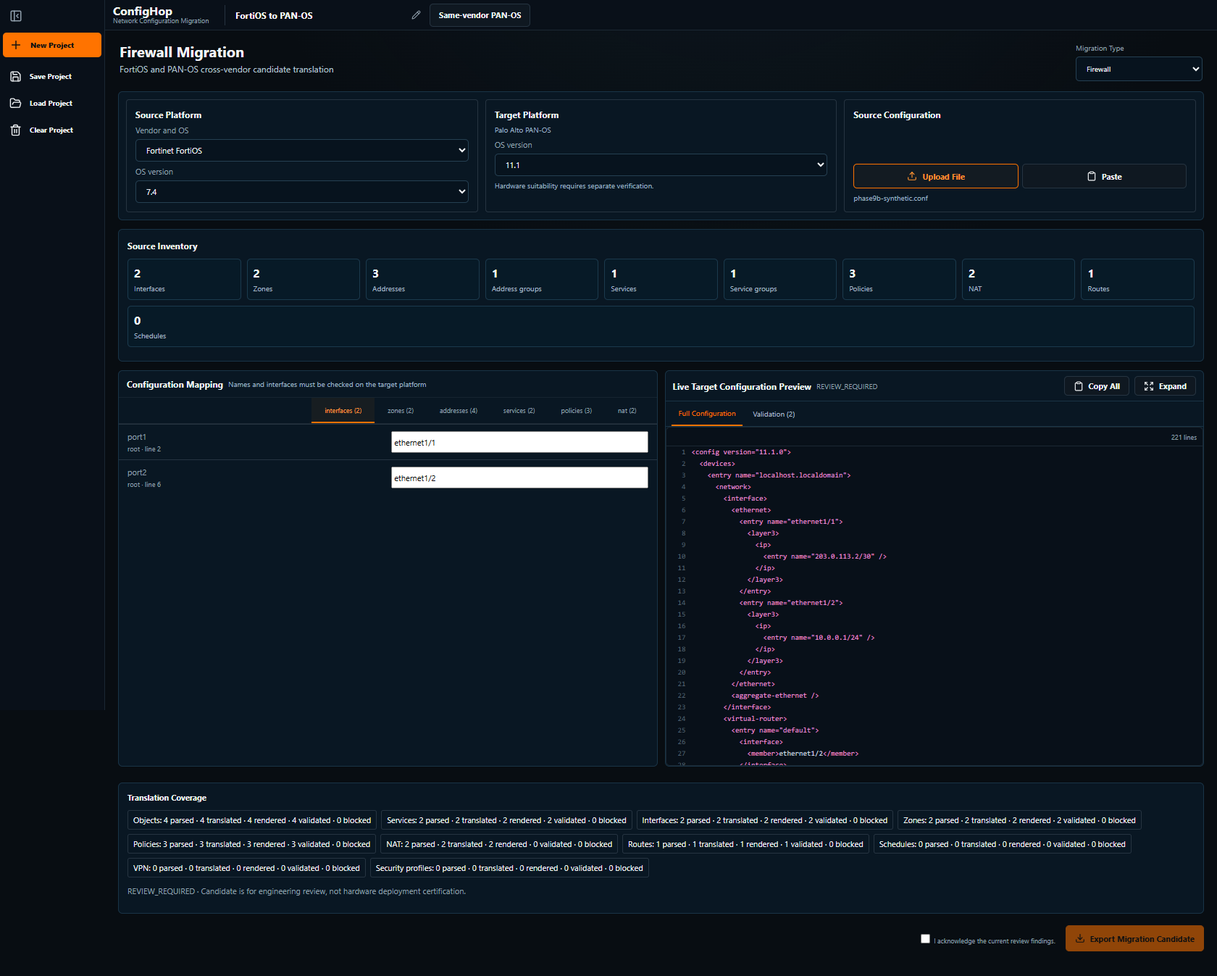
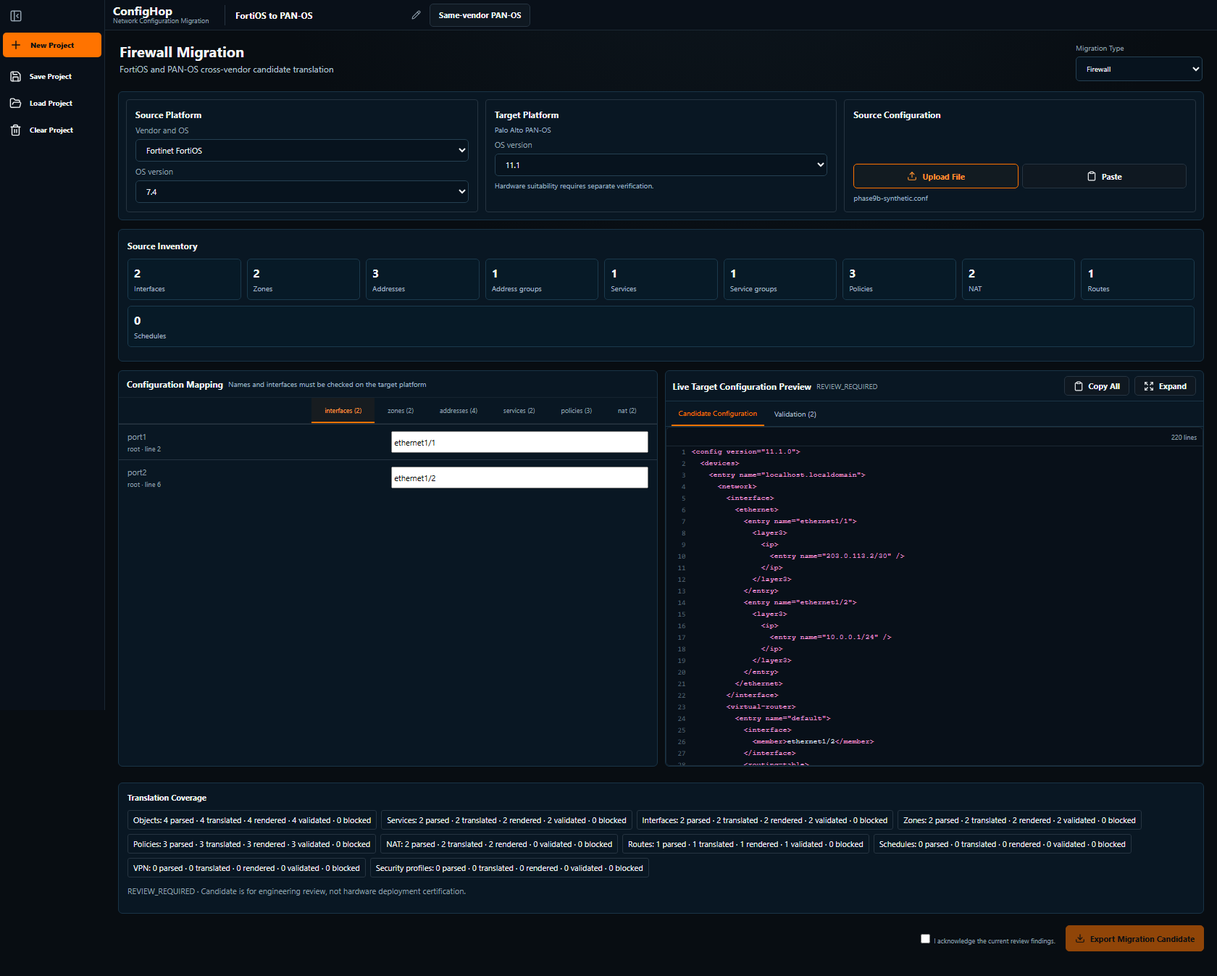
fix(firewall): preserve NAT service match and block ambiguous policies

Changed region(s): [[0.5571, 0.4053, 0.7119, 0.7795]]

diff --git a/src/FirewallApp.tsx b/src/FirewallApp.tsx
@@ -24,6 +24,7 @@ export default function FirewallApp() {
   const [domain, setDomain] = useState<Domain>('Firewall')
   const [backendMode, setBackendMode] = useState(true)
   const [crossVendorMode, setCrossVendorMode] = useState(false)
+  const [crossVendorInitialSource, setCrossVendorInitialSource] = useState<'fortios' | 'panos'>('fortios')
   const [projectName, setProjectName] = useState('Palo Alto Firewall Migration')
   const [switchProjectName, setSwitchProjectName] = useState('C9300-48P → CX 6300M 48G')
   const [sidebarCollapsed, setSidebarCollapsed] = useState(false)
@@ -280,8 +281,8 @@ export default function FirewallApp() {
       <button className="sidebar-action" onClick={domain === 'Switch' || crossVendorMode || !backendMode ? () => mockActions.current?.clear() : clearProject}><Trash2 size={17} /><span>Clear Project</span></button>
     </aside>
     <div className="app-content">
-      <header className="app-header"><div className="brand-text"><strong>ConfigHop</strong><span>Network Configuration Migration</span></div><div className="header-divider" /><div className="project-name"><input value={domain === 'Switch' ? switchProjectName : projectName} onChange={(event) => domain === 'Switch' ? setSwitchProjectName(event.target.value) : setProjectName(event.target.value)} aria-label="Project name" /><Pencil size={13} /></div>{domain === 'Firewall' && <button className="btn secondary" onClick={() => { setProjectName(crossVendorMode ? 'Palo Alto Firewall Migration' : 'FortiOS to PAN-OS'); setCrossVendorMode(value => !value); setBackendMode(true) }}>{crossVendorMode ? 'Same-vendor PAN-OS' : 'Cross-vendor Firewall'}</button>}</header>
-      {domain === 'Switch' ? <SwitchWorkspace onDomainChange={setDomain} onTitleChange={setSwitchProjectName} actionsRef={mockActions} /> : crossVendorMode ? <FirewallTranslationWorkspace onDomainChange={setDomain} onTitleChange={setProjectName} actionsRef={mockActions} /> : !backendMode ? <MockWorkspace key={domain} domain={domain} onDomainChange={setDomain} onBackend={() => { setBackendMode(true); setProjectName('Palo Alto → Palo Alto') }} actionsRef={mockActions} onTitleChange={setProjectName} /> :
+      <header className="app-header"><div className="brand-text"><strong>ConfigHop</strong><span>Network Configuration Migration</span></div><div className="header-divider" /><div className="project-name"><input value={domain === 'Switch' ? switchProjectName : projectName} onChange={(event) => domain === 'Switch' ? setSwitchProjectName(event.target.value) : setProjectName(event.target.value)} aria-label="Project name" /><Pencil size={13} /></div>{domain === 'Firewall' && <button className="btn secondary" onClick={() => { setProjectName(crossVendorMode ? 'Palo Alto Firewall Migration' : 'FortiOS to PAN-OS'); setCrossVendorInitialSource('fortios'); setCrossVendorMode(value => !value); setBackendMode(true) }}>{crossVendorMode ? 'Same-vendor PAN-OS' : 'Cross-vendor Firewall'}</button>}</header>
+      {domain === 'Switch' ? <SwitchWorkspace onDomainChange={setDomain} onTitleChange={setSwitchProjectName} actionsRef={mockActions} /> : crossVendorMode ? <FirewallTranslationWorkspace initialSourceOS={crossVendorInitialSource} onDomainChange={setDomain} onTitleChange={setProjectName} actionsRef={mockActions} /> : !backendMode ? <MockWorkspace key={domain} domain={domain} onDomainChange={setDomain} onBackend={() => { setBackendMode(true); setProjectName('Palo Alto → Palo Alto') }} actionsRef={mockActions} onTitleChange={setProjectName} /> :
         <main className="workspace locked-workspace firewall-workspace">
           <div className="locked-title"><div><h1>Firewall Migration</h1><p>Migrate a PAN-OS configuration within verified Palo Alto hardware scope</p></div><label>Migration Type<select value="Firewall" onChange={() => setDomain('Switch')}><option>Firewall</option><option>Switch</option></select></label></div>
           {errorText && <div className="api-error" role="alert"><CircleAlert size={15} />{errorText}</div>}
@@ -289,7 +290,7 @@ export default function FirewallApp() {
             <div className="migration-type-card"><div className="small-label">Migration Type</div><span className="type-subtitle">Select the technology domain</span><label htmlFor="migration-domain">Domain</label><select id="migration-domain" value={domain} onChange={() => setDomain('Switch')}><option>Firewall</option><option>Switch</option></select></div>
             <PlatformCard title="Source Platform" eyebrow="Current Environment" profile={sourceProfile} profiles={profiles.filter((item) => item.profile_status === 'verified')} selected={sourceProfile?.id ?? ''} onSelect={(id) => void selectSource(id)} train={sourceTrain} onTrain={(train) => void selectSource(sourceProfile?.id ?? '', train)} parsedVersion={inventory?.platform.detail_version ?? inventory?.platform.config_version ?? null} onEvidence={() => { setEvidenceScope(null); setShowEvidence(true) }} />
             <div className="migration-arrow"><ArrowRight size={30} /></div>
-            <PlatformCard title="Target Platform" eyebrow="Migration Destination" profile={profile} profiles={profiles} selected={profile?.id ?? ''} onSelect={(id) => void selectProfile(id)} train={targetTrain} onTrain={(train) => void selectProfile(profile?.id ?? '', train)} onEvidence={() => { setEvidenceScope(null); setShowEvidence(true) }} onVendorChange={() => setBackendMode(false)} />
+            <PlatformCard title="Target Platform" eyebrow="Migration Destination" profile={profile} profiles={profiles} selected={profile?.id ?? ''} onSelect={(id) => void selectProfile(id)} train={targetTrain} onTrain={(train) => void selectProfile(profile?.id ?? '', train)} onEvidence={() => { setEvidenceScope(null); setShowEvidence(true) }} onVendorChange={(vendor) => { if (vendor === 'Fortinet') { setCrossVendorInitialSource('panos'); setCrossVendorMode(true); setProjectName('PAN-OS to FortiOS') } else setErrorText('Cross-vendor backend support is limited to FortiOS and PAN-OS.') }} />
           </div></Section>
           <div className="two-up source-row"><Section number="2" title="Source Configuration" subtitle="Upload or paste PAN-OS XML"><div className="source-config-grid"><div className="source-actions">
             <button className="btn accent-outline" onClick={() => fileRef.current?.click()} disabled={busy}><Upload size={15} /> Upload File</button><button className="btn secondary" onClick={pasteClipboard} disabled={busy}><Clipboard size={15} /> Paste from Clipboard</button>
@@ -340,10 +341,10 @@ function Section({ number, title, subtitle, children }: { number: string; title:
 
 export function PlatformCard({ title, eyebrow, profile, profiles, selected, onSelect, train, onTrain, parsedVersion, onEvidence, onVendorChange }: {
   title: string; eyebrow: string; profile: HardwareProfileDetail | null; profiles: HardwareProfileSummary[]; selected: string;
-  onSelect: (id: string) => void; train: string; onTrain: (train: string) => void; parsedVersion?: string | null; onEvidence: () => void; onVendorChange?: () => void
+  onSelect: (id: string) => void; train: string; onTrain: (train: string) => void; parsedVersion?: string | null; onEvidence: () => void; onVendorChange?: (vendor: string) => void
 }) {
   const status = profile?.profile_status === 'verified' ? title === 'Target Platform' ? targetRenderLabel(profile.target_render_support) : 'Verified Profile' : profile ? 'Synthetic Profile' : 'Profile Not Available'
-  return <div className="platform-card"><div className="platform-card-head"><div className="platform-title"><strong>{title}</strong><span>{eyebrow}</span></div><div className="compatibility"><span className={profile?.target_render_support === 'SCOPED' && title === 'Target Platform' ? 'scoped-pill' : profile ? 'success-pill' : 'muted'}><CircleCheck size={14} /> {status}</span><small>{profile?.profile_status === 'verified' ? `Evidence: ${profile.evidence_ids.length} official sources` : profile ? 'Development profile only' : 'Exact hardware profile required'}</small>{title === 'Target Platform' && profile?.target_render_support === 'SCOPED' && <small>Candidate generation is limited to qualified interface paths.</small>}{!!profile?.evidence_ids.length && <button className="evidence-link" onClick={onEvidence}>View Evidence</button>}</div></div><div className="platform-fields"><label className="field"><span>Vendor</span><div className="select-wrap"><select value="Palo Alto Networks" disabled={!onVendorChange} onChange={onVendorChange}><option>Palo Alto Networks</option>{onVendorChange && <><option>Fortinet</option><option>Juniper Networks</option></>}</select></div><small>PAN-OS XML</small></label><label className="field"><span>PAN-OS Train</span><div className="select-wrap"><select value={train} onChange={(event) => onTrain(event.target.value)} disabled={!profile}><option value="">Select train</option>{profile?.supported_panos_trains.map((value) => <option key={value} value={value}>{value}</option>)}</select></div><small>{parsedVersion ? `Parsed config: PAN-OS ${parsedVersion}` : 'Selected train is manual'}</small></label><details className="hardware-advanced"><summary>Hardware compatibility · {profile?.model ?? 'select exact profile'}</summary><label className="field"><span>Hardware Profile</span><div className="select-wrap"><select aria-label={`${title} hardware profile`} value={selected} onChange={(event) => onSelect(event.target.value)}><option value="">Select {title === 'Target Platform' ? 'target' : 'source'} profile</option>{profiles.map((item) => <option key={item.id} value={item.id}>{item.model} — {item.profile_status === 'verified' ? 'Verified' : 'Synthetic Development'}</option>)}</select></div><small>{profile?.series ?? 'Manual selection required'}</small></label></details></div></div>
+  return <div className="platform-card"><div className="platform-card-head"><div className="platform-title"><strong>{title}</strong><span>{eyebrow}</span></div><div className="compatibility"><span className={profile?.target_render_support === 'SCOPED' && title === 'Target Platform' ? 'scoped-pill' : profile ? 'success-pill' : 'muted'}><CircleCheck size={14} /> {status}</span><small>{profile?.profile_status === 'verified' ? `Evidence: ${profile.evidence_ids.length} official sources` : profile ? 'Development profile only' : 'Exact hardware profile required'}</small>{title === 'Target Platform' && profile?.target_render_support === 'SCOPED' && <small>Candidate generation is limited to qualified interface paths.</small>}{!!profile?.evidence_ids.length && <button className="evidence-link" onClick={onEvidence}>View Evidence</button>}</div></div><div className="platform-fields"><label className="field"><span>Vendor</span><div className="select-wrap"><select value="Palo Alto Networks" disabled={!onVendorChange} onChange={(event) => onVendorChange?.(event.target.value)}><option>Palo Alto Networks</option>{onVendorChange && <><option>Fortinet</option><option>Juniper Networks</option></>}</select></div><small>PAN-OS XML</small></label><label className="field"><span>PAN-OS Train</span><div className="select-wrap"><select value={train} onChange={(event) => onTrain(event.target.value)} disabled={!profile}><option value="">Select train</option>{profile?.supported_panos_trains.map((value) => <option key={value} value={value}>{value}</option>)}</select></div><small>{parsedVersion ? `Parsed config: PAN-OS ${parsedVersion}` : 'Selected train is manual'}</small></label><details className="hardware-advanced"><summary>Hardware compatibility · {profile?.model ?? 'select exact profile'}</summary><label className="field"><span>Hardware Profile</span><div className="select-wrap"><select aria-label={`${title} hardware profile`} value={selected} onChange={(event) => onSelect(event.target.value)}><option value="">Select {title === 'Target Platform' ? 'target' : 'source'} profile</option>{profiles.map((item) => <option key={item.id} value={item.id}>{item.model} — {item.profile_status === 'verified' ? 'Verified' : 'Synthetic Development'}</option>)}</select></div><small>{profile?.series ?? 'Manual selection required'}</small></label></details></div></div>
 }
 
 function Metric({ icon, value, label }: { icon: ReactNode; value: number | string; label: string }) { return <div className="metric-tile"><div className="metric-icon">{icon}</div><div><strong>{value}</strong><span>{label}</span></div></div> }

diff --git a/src/FirewallTranslationWorkspace.tsx b/src/FirewallTranslationWorkspace.tsx
@@ -9,12 +9,12 @@ const emptyMappings = (): FirewallMappings => ({ interfaces: {}, zones: {}, addr
 const sourceOptions = { fortios: ['7.4'], panos: ['11.1'] }
 const label = { fortios: 'Fortinet FortiOS', panos: 'Palo Alto PAN-OS' }
 type Vendor = 'fortios' | 'panos'
-type Props = { onDomainChange: (domain: 'Firewall' | 'Switch') => void; onTitleChange: (title: string) => void; actionsRef: RefObject<MockActions | null> }
+type Props = { onDomainChange: (domain: 'Firewall' | 'Switch') => void; onTitleChange: (title: string) => void; actionsRef: RefObject<MockActions | null>; initialSourceOS?: Vendor }
 
-export default function FirewallTranslationWorkspace({ onDomainChange, onTitleChange, actionsRef }: Props) {
-  const [sourceOS, setSourceOS] = useState<Vendor>('fortios')
-  const [sourceVersion, setSourceVersion] = useState('7.4')
-  const [targetVersion, setTargetVersion] = useState('11.1')
+export default function FirewallTranslationWorkspace({ onDomainChange, onTitleChange, actionsRef, initialSourceOS = 'fortios' }: Props) {
+  const [sourceOS, setSourceOS] = useState<Vendor>(initialSourceOS)
+  const [sourceVersion, setSourceVersion] = useState(initialSourceOS === 'fortios' ? '7.4' : '11.1')
+  const [targetVersion, setTargetVersion] = useState(initialSourceOS === 'fortios' ? '11.1' : '7.4')
   const targetOS: Vendor = sourceOS === 'fortios' ? 'panos' : 'fortios'
   const [project, setProject] = useState<FirewallProject | null>(null)
   const [preview, setPreview] = useState<FirewallPreview | null>(null)
@@ -120,7 +120,7 @@ export default function FirewallTranslationWorkspace({ onDomainChange, onTitleCh
       ['Services', inventory?.services.length], ['Service groups', inventory?.service_groups.length], ['Policies', inventory?.policies.length], ['NAT', inventory?.nat.length], ['Routes', inventory?.routes.length], ['Schedules', inventory?.schedules.length],
     ].map(([title, count]) => <div key={title}><b>{count ?? '—'}</b><span>{title}</span></div>)}</div>{inventory?.findings.length ? <small>{inventory.findings.length} source findings require review.</small> : null}</section>
     <div className="locked-main"><section className="section-card locked-mapping"><div className="section-heading"><strong>Configuration Mapping</strong><span>Names and interfaces must be checked on the target platform</span></div><div className="results-tabs">{categories.map(([key, values]) => <button key={key} className={category === key ? 'active' : ''} onClick={() => setCategory(key)}>{key} ({values.length})</button>)}</div><div className="phase9b-list">{active.map(item => <label key={`${item.scope}:${item.name}`}><span>{item.name}<small>{item.scope}{item.line ? ` · line ${item.line}` : ''}</small></span><input aria-label={`Target ${category} for ${item.name}`} placeholder={category === 'interfaces' ? 'Required target interface' : item.name} value={mappings[category][item.name] ?? ''} onChange={event => rename(category, item.name, event.target.value)} /></label>)}{!active.length && <div className="viewer-placeholder">No {category} parsed from this source.</div>}</div></section>
-      <LiveConfigEditor text={candidate?.text ?? ''} syntax={candidate?.syntax ?? (targetOS === 'panos' ? 'xml' : 'cli')} status={candidate?.status ?? (loading ? 'Updating' : 'Awaiting source')} message={candidate?.status === 'BLOCKED' ? 'Resolve blocking findings before a candidate can be rendered.' : 'Upload a source and provide target mappings.'} findings={candidate?.findings ?? inventory?.findings ?? []} loading={loading} onCopyError={() => setError('Clipboard access is unavailable.')} />
+      <LiveConfigEditor text={candidate?.text ?? ''} syntax={candidate?.syntax ?? (targetOS === 'panos' ? 'xml' : 'cli')} configurationLabel="Candidate Configuration" status={candidate?.status ?? (loading ? 'Updating' : 'Awaiting source')} message={candidate?.status === 'BLOCKED' ? 'Resolve blocking findings before a candidate can be rendered.' : 'Upload a source and provide target mappings.'} findings={candidate?.findings ?? inventory?.findings ?? []} loading={loading} onCopyError={() => setError('Clipboard access is unavailable.')} />
     </div>
     <section className="section-card phase9b-report"><strong>Translation Coverage</strong><div className="phase9b-coverage">{(candidate?.coverage ?? []).map(row => <span key={row.category}>{row.category}: {row.parsed} parsed · {row.translated} translated · {row.rendered} rendered · {row.validated} validated · {row.blocked} blocked</span>)}</div><p>{candidate?.status ?? 'INCOMPLETE'} · Candidate is for engineering review, not hardware deployment certification.</p></section>
     <div className="locked-export">{candidate?.status === 'REVIEW_REQUIRED' && <label><input type="checkbox" checked={ack} onChange={event => setAck(event.target.checked)} /> I acknowledge the current review findings.</label>}<button className="btn accent" disabled={!canExport} onClick={() => void exportCandidate()}><Download size={14} /> Export Migration Candidate</button></div>

diff --git a/src/LiveConfigEditor.tsx b/src/LiveConfigEditor.tsx
@@ -9,10 +9,11 @@ type Props = {
   findings?: { severity: string; code: string; message: string }[]
   loading?: boolean
   syntax?: 'xml' | 'cli'
+  configurationLabel?: string
   onCopyError?: () => void
 }
 
-export default function LiveConfigEditor({ text, status, message, findings = [], loading = false, syntax = 'xml', onCopyError }: Props) {
+export default function LiveConfigEditor({ text, status, message, findings = [], loading = false, syntax = 'xml', configurationLabel = 'Full Configuration', onCopyError }: Props) {
   const [tab, setTab] = useState<'Configuration' | 'Validation'>('Configuration')
   const dialog = useRef<HTMLDialogElement>(null)
   const lines = text ? text.split('\n') : []
@@ -20,8 +21,8 @@ export default function LiveConfigEditor({ text, status, message, findings = [],
   const content = (height: number) => tab === 'Validation' ? <div className="live-findings" role="status"><strong>{status}</strong>{findings.length ? findings.map((finding, index) => <p key={`${finding.code}-${index}`}><b>{finding.severity}: {finding.code}</b><br />{finding.message}</p>) : <p>{message}</p>}</div> : text ? <VirtualCodeViewer lines={lines} height={height} syntax={syntax} /> : <div className="live-empty" role="status">{loading ? 'Generating current candidate…' : message}</div>
   return <section className="section-card live-editor" aria-label="Live target configuration preview">
     <div className="live-heading"><div><strong>Live Target Configuration Preview</strong><span className={status === 'READY' ? 'success-pill' : 'muted'}>{loading ? 'Updating…' : status}</span></div><div><button className="btn secondary" onClick={copy} disabled={!text}><Clipboard size={14} /> Copy All</button><button className="btn secondary" onClick={() => dialog.current?.showModal()} aria-label="Expand configuration preview"><Expand size={14} /> Expand</button></div></div>
-    <div className="live-tabs" role="tablist" aria-label="Preview views"><button role="tab" aria-selected={tab === 'Configuration'} className={tab === 'Configuration' ? 'active' : ''} onClick={() => setTab('Configuration')}>Full Configuration</button><button role="tab" aria-selected={tab === 'Validation'} className={tab === 'Validation' ? 'active' : ''} onClick={() => setTab('Validation')}>Validation ({findings.length})</button></div>
+    <div className="live-tabs" role="tablist" aria-label="Preview views"><button role="tab" aria-selected={tab === 'Configuration'} className={tab === 'Configuration' ? 'active' : ''} onClick={() => setTab('Configuration')}>{configurationLabel}</button><button role="tab" aria-selected={tab === 'Validation'} className={tab === 'Validation' ? 'active' : ''} onClick={() => setTab('Validation')}>Validation ({findings.length})</button></div>
     {content(440)}
-    <dialog ref={dialog} className="live-dialog" aria-label="Expanded configuration preview"><div className="live-heading"><strong>Live Target Configuration Preview</strong><button className="btn secondary" onClick={() => dialog.current?.close()}><X size={14} /> Restore</button></div><div className="live-tabs"><button className={tab === 'Configuration' ? 'active' : ''} onClick={() => setTab('Configuration')}>Full Configuration</button><button className={tab === 'Validation' ? 'active' : ''} onClick={() => setTab('Validation')}>Validation ({findings.length})</button></div>{content(600)}</dialog>
+    <dialog ref={dialog} className="live-dialog" aria-label="Expanded configuration preview"><div className="live-heading"><strong>Live Target Configuration Preview</strong><button className="btn secondary" onClick={() => dialog.current?.close()}><X size={14} /> Restore</button></div><div className="live-tabs"><button className={tab === 'Configuration' ? 'active' : ''} onClick={() => setTab('Configuration')}>{configurationLabel}</button><button className={tab === 'Validation' ? 'active' : ''} onClick={() => setTab('Validation')}>Validation ({findings.length})</button></div>{content(600)}</dialog>
   </section>
 }

diff --git a/backend/src/confighop_core/parsers/fortios.py b/backend/src/confighop_core/parsers/fortios.py
@@ -130,6 +130,17 @@ def parse_fortios(source: str, version: str) -> FirewallIR:
             ir.findings.append(Finding(severity='BLOCKED', code='SCHEDULE_ONETIME', message='One-time schedule translation is unsupported.', entity=item.name, line=item.line))
         pools = {item.name: item for item in context.items('config firewall ippool')}
         vips = {item.name: item for item in context.items('config firewall vip')}
+        service_groups = {item.name: item.members for item in ir.service_groups}
+        def nat_service(policy: Policy, line: int) -> str:
+            values = policy.services
+            seen = set()
+            while len(values) == 1 and values[0] in service_groups and values[0] not in seen:
+                seen.add(values[0])
+                values = service_groups[values[0]]
+            if len(values) == 1 and (values[0] in {service.name for service in ir.services} or values[0].lower() in {'all', 'any'}):
+                return 'any' if values[0].lower() in {'all', 'any'} else values[0]
+            ir.findings.append(Finding(severity='BLOCKED', code='NAT_SERVICE', message='Policy NAT needs one resolvable service match.', entity=policy.name, line=line))
+            return ''
         for order, item in enumerate(context.items('config firewall policy')):
             policy = Policy(name=item.get('name', item.name), source_name=item.name, scope=scope, line=item.line,
                 source_zones=item.values.get('srcintf', []), destination_zones=item.values.get('dstintf', []),
@@ -138,10 +149,18 @@ def parse_fortios(source: str, version: str) -> FirewallIR:
                 disabled=item.get('status', 'enable') == 'disable', schedule=item.get('schedule', 'always'),
                 log=item.get('logtraffic', 'disable') != 'disable', description=item.get('comments'),
                 nat=item.get('nat') == 'enable', nat_pool=item.get('poolname') or None)
+            for key, allowed in [('status', {'enable', 'disable'}), ('nat', {'enable', 'disable'}),
+                    ('ippool', {'enable', 'disable'}), ('logtraffic', {'all', 'disable'})]:
+                if key in item.values and item.get(key) not in allowed:
+                    ir.findings.append(Finding(severity='BLOCKED', code='POLICY_ENUM', message=f'Unsupported {key} value.', entity=policy.name, line=item.line))
             for reference in policy.source_zones + policy.destination_zones:
                 if reference in {interface.name for interface in ir.interfaces} and reference not in {zone.name for zone in ir.zones}:
                     ir.zones.append(Zone(name=reference, scope=scope, line=item.line, interfaces=[reference]))
             ir.policies.append(policy)
+            if policy.nat and any(destination in vips for destination in policy.destinations):
+                ir.findings.append(Finding(severity='BLOCKED', code='COMBINED_NAT', message='Combined SNAT and VIP/DNAT needs a distinct packet-flow translation.', entity=policy.name, line=item.line))
+            if policy.disabled and (policy.nat or any(destination in vips for destination in policy.destinations)):
+                ir.findings.append(Finding(severity='BLOCKED', code='NAT_DISABLED_POLICY', message='NAT on a disabled policy cannot produce an active target rule.', entity=policy.name, line=item.line))
             if policy.nat:
                 if item.get('ippool') != 'enable' or not policy.nat_pool or policy.nat_pool not in pools:
                     ir.findings.append(Finding(severity='BLOCKED', code='SNAT_INTERFACE', message='Interface SNAT or missing pool cannot be translated without a verified egress address.', entity=policy.name, line=item.line))
@@ -151,21 +170,25 @@ def parse_fortios(source: str, version: str) -> FirewallIR:
                         ir.findings.append(Finding(severity='BLOCKED', code='SNAT_POOL_TYPE', message='Only a single-address overload pool is supported.', entity=pool.name, line=pool.line))
                     else:
                         ir.nat.append(Nat(name=f'snat-{item.name}', kind='dipp', scope=scope, line=item.line,
+                            service=nat_service(policy, item.line),
                             source_zones=policy.source_zones, destination_zones=policy.destination_zones,
                             sources=policy.sources, destinations=policy.destinations, translated_address=pool.get('startip'), related_policy=policy.name))
             for destination in policy.destinations:
                 if destination in vips:
                     vip = vips[destination]
-                    if not vip.get('extip') or not vip.get('mappedip') or vip.get('portforward', 'disable') != 'disable':
+                    if not vip.get('extip') or not vip.get('mappedip') or vip.get('portforward', 'disable') != 'disable' or vip.get('extport') or vip.get('mappedport'):
                         ir.findings.append(Finding(severity='BLOCKED', code='VIP_COMPLEX', message='Only one-to-one VIP without port forwarding is supported.', entity=vip.name, line=vip.line))
                     else:
                         ingress = [zone.name for zone in ir.zones if vip.get('extintf') in zone.interfaces]
                         if len(ingress) != 1:
                             ir.findings.append(Finding(severity='BLOCKED', code='VIP_INGRESS', message='VIP requires an explicit external interface in exactly one zone.', entity=vip.name, line=vip.line))
+                        elif ingress[0] not in policy.source_zones:
+                            ir.findings.append(Finding(severity='BLOCKED', code='VIP_INGRESS_ZONE', message='VIP ingress zone differs from the linked policy source zone.', entity=vip.name, line=vip.line))
                         if not any(address.name == vip.name for address in ir.addresses):
                             ir.addresses.append(Address(name=vip.name, scope=scope, line=vip.line,
                                 kind='ipmask', value=f"{vip.get('extip')}/32"))
                         ir.nat.append(Nat(name=f'dnat-{vip.name}', kind='dnat', scope=scope, line=vip.line,
+                            service=nat_service(policy, item.line),
                             source_zones=policy.source_zones, destination_zones=ingress,
                             sources=policy.sources, destinations=[vip.get('extip')], translated_address=vip.get('mappedip'),
                             related_policy=policy.name))

diff --git a/backend/src/confighop_core/firewall_migration.py b/backend/src/confighop_core/firewall_migration.py
@@ -132,6 +132,23 @@ def validate_firewall(ir: FirewallIR, target: Vendor, mappings: FirewallMappings
             findings.append(_finding('NAT_KIND', 'NAT kind is unsupported.', nat.name))
         if not nat.translated_address:
             findings.append(_finding('NAT_TRANSLATION', 'Translated address is missing.', nat.name))
+        if nat.service.lower() not in {'any', 'all'} and nat.service not in service_names:
+            findings.append(_finding('NAT_SERVICE', 'NAT service reference is unresolved.', nat.name))
+        if nat.service in {group.name for group in ir.service_groups}:
+            findings.append(_finding('NAT_SERVICE', 'NAT group service matching is not in the supported subset.', nat.name))
+        if nat.related_policy:
+            related = next((policy for policy in ir.policies if policy.name == nat.related_policy), None)
+            if related is None:
+                findings.append(_finding('NAT_POLICY_LINK', 'NAT references a missing security policy.', nat.name))
+            else:
+                groups = {group.name: group.members for group in ir.service_groups}
+                values = related.services
+                seen = set()
+                while len(values) == 1 and values[0] in groups and values[0] not in seen:
+                    seen.add(values[0]); values = groups[values[0]]
+                related_service = values[0] if len(values) == 1 else None
+                if not related_service or (nat.service.lower() in {'any', 'all'}) != (related_service.lower() in {'any', 'all'}) or (nat.service.lower() not in {'any', 'all'} and nat.service != related_service):
+                    findings.append(_finding('NAT_SERVICE_MISMATCH', 'NAT and linked security policy have different service matches.', nat.name))
         translated = next((address.value for address in ir.addresses if address.name == nat.translated_address), nat.translated_address)
         try:
             translated_ip = ipaddress.ip_network(translated, strict=False)
@@ -301,7 +318,7 @@ def _render_panos(ir: FirewallIR, mappings: FirewallMappings) -> str:
         for path, values, mapping in [('from', nat.source_zones, mappings.zones), ('to', nat.destination_zones, mappings.zones),
                 ('source', nat.sources, mappings.addresses), ('destination', nat.destinations, mappings.addresses)]:
             _members(entry, path, _refs(values, mapping, 'any'))
-        _add(entry, 'service', 'any')
+        _add(entry, 'service', 'any' if nat.service.lower() in {'any', 'all'} else _name(nat.service, mappings.services))
         if nat.kind == 'dipp':
             _members(entry, 'source-translation/dynamic-ip-and-port/translated-address', [nat.translated_address])
         else:
@@ -398,7 +415,7 @@ def _render_fortios(ir: FirewallIR, mappings: FirewallMappings) -> str:
         *([('nat', 'enable'), ('ippool', 'enable'), ('poolname', f'pool-{next(nat.name for nat in ir.nat if nat.kind == "dipp" and nat.related_policy == item.name)}')]
             if any(nat.kind == 'dipp' and nat.related_policy == item.name for nat in ir.nat) else [])])
         for index, item in enumerate(ir.policies)])
-    return output
+    return output.rstrip() + '\n'
 
 
 def generate_firewall(ir: FirewallIR, target: Vendor, mappings: FirewallMappings, revision: int, target_version: str = '') -> FirewallCandidate:

diff --git a/backend/src/confighop_core/parsers/panos_firewall.py b/backend/src/confighop_core/parsers/panos_firewall.py
@@ -85,6 +85,9 @@ def parse_panos_firewall(source: str, version: str) -> FirewallIR:
             ir.findings.append(Finding(severity='BLOCKED', code='SCHEDULE_SEMANTICS', message='PAN-OS schedule translation requires manual design.', entity=entry.get('name', '')))
         for entry in container.findall('./rulebase/security/rules/entry'):
             name = entry.get('name', '')
+            for key in ('disabled', 'log-end', 'negate-source', 'negate-destination'):
+                if entry.find(key) is not None and _text(entry, key) not in {'yes', 'no'}:
+                    ir.findings.append(Finding(severity='BLOCKED', code='POLICY_ENUM', message=f'Unsupported {key} value.', entity=name))
             supported_policy_fields = {'from', 'to', 'source', 'destination', 'application', 'service', 'action',
                 'disabled', 'description', 'log-end', 'schedule', 'profile-setting', 'source-user',
                 'negate-source', 'negate-destination', 'category'}
@@ -106,6 +109,8 @@ def parse_panos_firewall(source: str, version: str) -> FirewallIR:
                 ir.findings.append(Finding(severity='BLOCKED', code='POLICY_MATCH', message='Negated or category-based matching needs manual migration.', entity=name))
         for entry in container.findall('./rulebase/nat/rules/entry'):
             name = entry.get('name', '')
+            if entry.find('disabled') is not None and _text(entry, 'disabled') not in {'yes', 'no'}:
+                ir.findings.append(Finding(severity='BLOCKED', code='NAT_ENUM', message='Unsupported NAT disabled value.', entity=name))
             for child in entry:
                 if child.tag not in {'from', 'to', 'source', 'destination', 'service', 'source-translation', 'destination-translation', 'disabled'}:
                     ir.findings.append(Finding(severity='BLOCKED', code='UNSUPPORTED_NAT_FIELD', message=f'Unsupported NAT field {child.tag}.', entity=name))
@@ -113,9 +118,7 @@ def parse_panos_firewall(source: str, version: str) -> FirewallIR:
                 ir.findings.append(Finding(severity='BLOCKED', code='NAT_DISABLED', message='Disabled NAT rules require explicit target handling.', entity=name))
             common = dict(name=name, scope=scope, source_zones=_members(entry, './from/member'),
                 destination_zones=_members(entry, './to/member'), sources=_members(entry, './source/member'),
-                destinations=_members(entry, './destination/member'))
-            if _text(entry, 'service', 'any') != 'any':
-                ir.findings.append(Finding(severity='BLOCKED', code='NAT_SERVICE', message='Service-constrained NAT needs manual matching verification.', entity=name))
+                destinations=_members(entry, './destination/member'), service=_text(entry, 'service', 'any'))
             dipp = entry.find('./source-translation/dynamic-ip-and-port')
             dnat = entry.find('./destination-translation')
             if dipp is not None:

diff --git a/backend/tests/test_firewall_migration.py b/backend/tests/test_firewall_migration.py
@@ -19,6 +19,7 @@ def test_fortios_to_panos_candidate_preserves_order_and_policy_state():
     assert '<disabled>yes</disabled>' in candidate.text
     assert '<dynamic-ip-and-port>' in candidate.text
     assert '<destination-translation>' in candidate.text
+    assert '<service>TCP_8443</service>' in candidate.text
     assert candidate.text == (FIXTURE.parent / 'panos.xml').read_text()
     parsed = parse_panos_firewall(candidate.text, '11.1')
     assert len(parsed.policies) == 3
@@ -62,6 +63,27 @@ def test_dependency_cycle_missing_reference_schedule_and_vip_ingress_block():
     result = generate_firewall(ir, 'panos', FirewallMappings(interfaces={'port1': 'ethernet1/1', 'port2': 'ethernet1/2'}), 1)
     assert result.status == 'BLOCKED' and not result.text
     assert {'CYCLIC_GROUP', 'MISSING_REFERENCE', 'SCHEDULE', 'VIP_INGRESS'} <= {finding.code for finding in result.findings}
+
+
+def test_policy_nat_with_multiple_services_blocks_instead_of_broadening():
+    source = FIXTURE.read_text().replace('set member "TCP_8443"', 'set member "TCP_8443" "TCP_9000"')
+    ir = parse_fortios(source, '7.4')
+    result = generate_firewall(ir, 'panos', FirewallMappings(interfaces={'port1': 'ethernet1/1', 'port2': 'ethernet1/2'}), 1)
+    assert result.status == 'BLOCKED' and not result.text
+    assert any(f.code == 'NAT_SERVICE' for f in result.findings)
+
+
+def test_combined_or_disabled_policy_nat_cannot_become_active_target_nat():
+    source = FIXTURE.read_text().replace('set dstaddr "WEB_VIP"', 'set dstaddr "WEB_VIP"\n        set nat enable', 1)
+    ir = parse_fortios(source, '7.4')
+    result = generate_firewall(ir, 'panos', FirewallMappings(interfaces={'port1': 'ethernet1/1', 'port2': 'ethernet1/2'}), 1)
+    assert result.status == 'BLOCKED'
+    assert any(f.code == 'COMBINED_NAT' for f in result.findings)
+    source = FIXTURE.read_text().replace('set nat enable', 'set nat enable\n        set status disable', 1)
+    ir = parse_fortios(source, '7.4')
+    result = generate_firewall(ir, 'panos', FirewallMappings(interfaces={'port1': 'ethernet1/1', 'port2': 'ethernet1/2'}), 1)
+    assert result.status == 'BLOCKED'
+    assert any(f.code == 'NAT_DISABLED_POLICY' for f in result.findings)
 
 
 def test_ir_provenance_serialization_and_mapping_rename_are_deterministic():

diff --git a/backend/src/confighop_core/firewall_ir.py b/backend/src/confighop_core/firewall_ir.py
@@ -19,7 +19,7 @@ def finalize_ir(ir: FirewallIR) -> FirewallIR:
             elif kind == 'policy':
                 item.dependencies = list(dict.fromkeys(item.source_zones + item.destination_zones + item.sources + item.destinations + item.services + ([item.schedule] if item.schedule != 'always' else [])))
             elif kind == 'nat':
-                item.dependencies = list(dict.fromkeys(item.source_zones + item.destination_zones + item.sources + item.destinations + ([item.related_policy] if item.related_policy else [])))
+                item.dependencies = list(dict.fromkeys(item.source_zones + item.destination_zones + item.sources + item.destinations + ([item.service] if item.service != 'any' else []) + ([item.related_policy] if item.related_policy else [])))
             elif kind == 'route':
                 item.dependencies = list(filter(None, [item.interface, item.router]))
             item.findings = [finding for finding in ir.findings if finding.entity == item.name]

diff --git a/backend/src/confighop_core/models/firewall.py b/backend/src/confighop_core/models/firewall.py
@@ -79,6 +79,7 @@ class Policy(Resource):
 
 class Nat(Resource):
     kind: str
+    service: str = 'any'
     source_zones: list[str] = Field(default_factory=list)
     destination_zones: list[str] = Field(default_factory=list)
     sources: list[str] = Field(default_factory=list)

diff --git a/docs/phase9b-firewall-translation.md b/docs/phase9b-firewall-translation.md
@@ -45,7 +45,7 @@ The supported pair is **FortiOS 7.4 ↔ PAN-OS 11.1**, using synthetic fixtures 
 | Interfaces and zones | Same-vendor physical mapping | Explicit physical, simple VLAN/aggregate mappings; zone name mapping | NEW_IMPLEMENTATION; no hardware profile claim |
 | Static routes | PAN-OS inventory | IPv4 static route with optional mapped egress and IP next hop | NEW_IMPLEMENTATION; dynamic routing blocked |
 | Security policies | PAN-OS inventory | Ordered allow/deny, disabled state, address/service/zone refs, log-end and description | NEW_IMPLEMENTATION; App-ID, identity, profiles, negation, category blocked |
-| NAT | PAN-OS inventory | Single-address overload SNAT and one-to-one VIP/DNAT with explicit ingress and policy link | NEW_IMPLEMENTATION; port forwarding, central NAT, complex pools and ambiguous packet flow blocked; every emitted NAT rule requires engineer review |
+| NAT | PAN-OS inventory | Single-address overload SNAT and one-to-one VIP/DNAT with explicit ingress, one resolvable service match, and policy link | NEW_IMPLEMENTATION; port forwarding, central NAT, complex pools, combined SNAT/DNAT, and ambiguous packet flow blocked; every emitted NAT rule requires engineer review |
 | Schedules | Not translated | Inventory and findings | UNSUPPORTED for restricted/one-time/recurring conversion; no widening to `always` |
 | VPN, security profiles | Not translated | Detected when visible in parsed sections/policies | UNSUPPORTED, BLOCKED_PENDING_EVIDENCE |
 | Name mapping and reference integrity | Same-vendor interface mapping | Explicit interface mapping; zone/object/service/policy/NAT renames; missing/cyclic/duplicate checks | NEW_IMPLEMENTATION |
